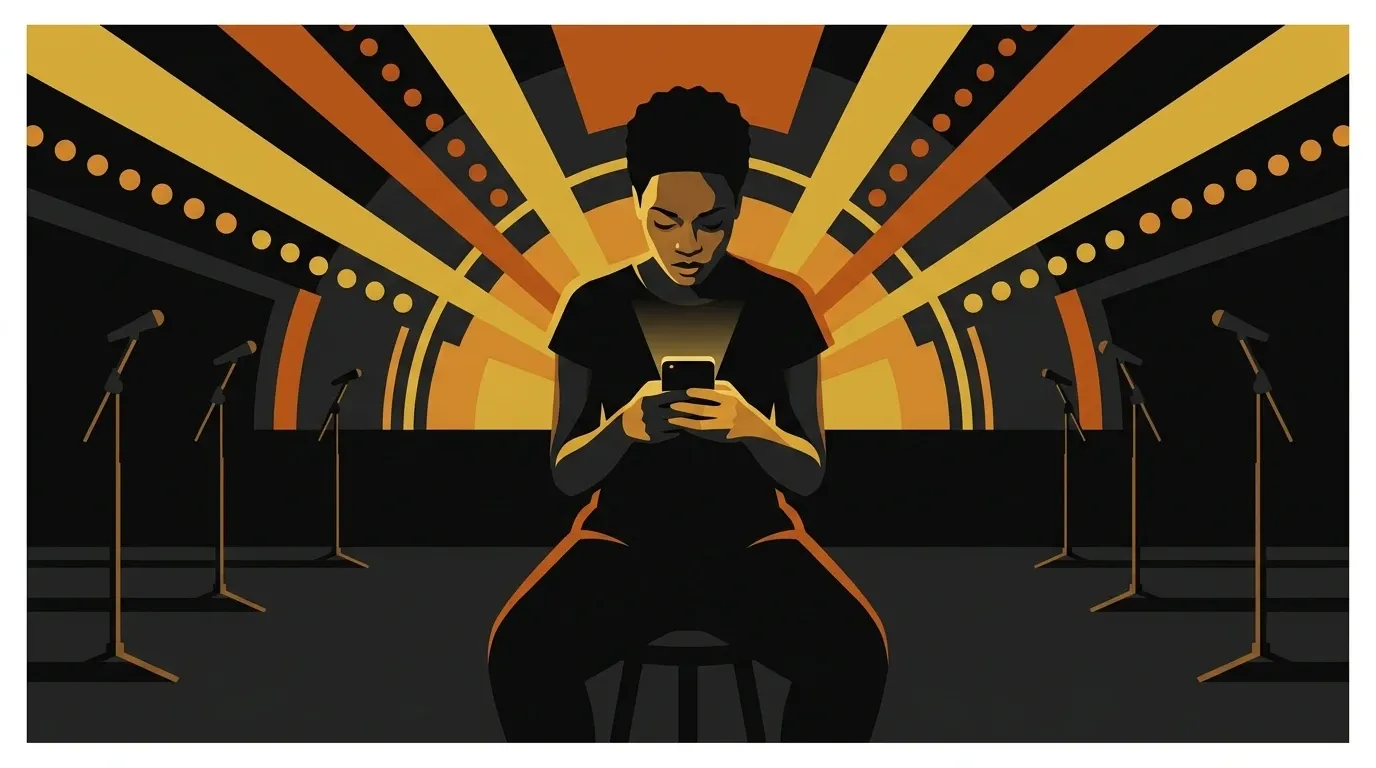
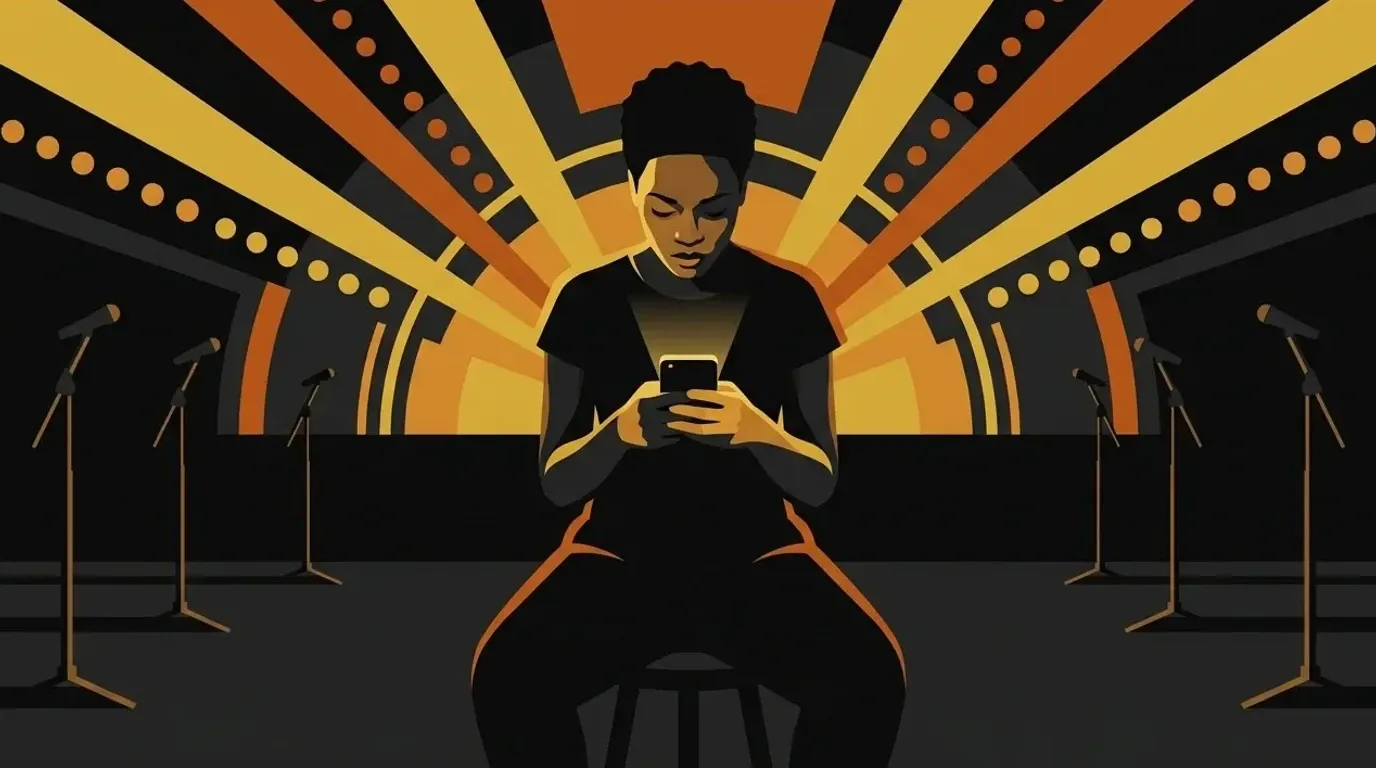
Crop the white frame off the Streaming Loss hero, and machine-check for it
The generator drew a 25px pure-white border around hero-worth on all four sides
and it reached production. Measured, not guessed: an edge scan of all fifteen
brand images found exactly one with near-white edges, at 255,255,255, while the
other fourteen sit between 6 and 178 on a #0D0D0D page.

Cropped to the largest exact 16:9 box inside the content area (1268x713 at offset
54,27) and resampled back to 1376x768, so nothing is stretched and the
composition is unchanged. 62 KB.

The house rule already said "always look at every image before shipping it", and
I did look at this one. A thin light border against a dark page is simply not
visible at review scale, which makes the eye the wrong instrument. So the edges
are measured now: the test samples all four edges of every public/hero-* and
public/section-* file and fails on a near-white edge, naming the file and the
side. Proven by mutation: a 25px white frame was reintroduced on section-pricing,
the guard failed with "section-pricing.webp has a white top border", and the
revert restored a clean suite with no diff.

sharp is a transitive dependency of Next rather than a declared one, so an
unavailable sharp SKIPS the check instead of failing it. A guard that breaks the
suite when an unrelated upgrade moves a package is worse than no guard.

CLAUDE.md now states the no-border rule, that it is machine-checked, and what
each check is for: looking catches a middle-aged face, a sixth colour or the
[…]

diff --git a/src/lib/leadMagnets/toolPositioning.test.ts b/src/lib/leadMagnets/toolPositioning.test.ts
@@ -10,7 +10,7 @@
 // invisible in a build and invisible in a type check, so it gets asserted here.
 
 import { describe, it, expect } from 'vitest';
-import { readFileSync, existsSync } from 'fs';
+import { readFileSync, existsSync, readdirSync } from 'fs';
 import { join } from 'path';
 import { TOOL_DOORWAYS, PROMOTED_MARKETING_SLUGS, hasDoorway, getDoorway } from './positioning';
 import { LEAD_MAGNETS, EXTERNAL_TOOLS, getLeadMagnet } from './registry';
@@ -159,6 +159,55 @@ describe('every headline opens on a brand photograph', () => {
     for (const [label, keys] of [['homepage', home], ['calculator', tool]] as const) {
       const srcs = keys.map((k) => SECTION_ART[k].src);
       expect(new Set(srcs).size, `${label} has a duplicate image`).toBe(srcs.length);
+    }
+  });
+
+  it('ships no brand image with a white frame baked into it', async () => {
+    // The generator drew a 25px white border around one hero and it reached production. The house
+    // rule already said "always look at every image", and I did look at this one: a thin white
+    // frame is simply not visible at review scale against a page that is already dark. Eyes are the
+    // wrong instrument for this, so the edges get measured instead.
+    //
+    // `sharp` is a transitive dependency of Next rather than a declared one, so an unavailable
+    // sharp SKIPS rather than fails. A guard that breaks the suite when an unrelated upgrade moves
+    // a package is worse than no guard.
+    // Structurally typed rather than `typeof import('sharp')`: the package is transitive, so its
+    // types are not guaranteed to resolve here, and only these two calls are used.
+    type SharpLike = (input: string) => {
+      metadata(): Promise<{ width?: number; height?: number }>;
+      raw(): { toBuffer(): Promise<Buffer> };
+    };
+    let sharp: SharpLike;
+    try {
+      sharp = ((await import('sharp')) as unknown as { default: SharpLike }).default;
+    } catch {
+      console.warn('[brand art] sharp unavailable, edge check skipped');
+      return;
+    }
+
+    const files = readdirSync(join(root, 'public')).filter((f) => /^(hero|section)-.*\.webp$/.test(f));
+    expect(files.length, 'brand art is present').toBeGreaterThan(10);
+
+    for (const file of files) {
+      const img = sharp(join(root, 'public', file));
+      const { width = 0, height = 0 } = await img.metadata();
+      const raw = await img.raw().toBuffer();
+      const lum = (x: number, y: number) => {
+        const i = (y * width + x) * 3;
+        return (raw[i] + raw[i + 1] + raw[i + 2]) / 3;
+      };
+      // Sample each edge. A brand image sits on #0D0D0D, so an edge that is mostly near-white is a
+      // frame the model drew, never artwork.
+      const edges: [string, number[]][] = [
+        ['top', Array.from({ length: 40 }, (_, i) => lum(Math.floor((width * (i + 0.5)) / 40), 0))],
+        ['bottom', Array.from({ length: 40 }, (_, i) => lum(Math.floor((width * (i + 0.5)) / 40), height - 1))],
+        ['left', Array.from({ length: 40 }, (_, i) => lum(0, Math.floor((height * (i + 0.5)) / 40)))],
+        ['right', Array.from({ length: 40 }, (_, i) => lum(width - 1, Math.floor((height * (i + 0.5)) / 40)))],
+      ];
+      for (const [side, samples] of edges) {
+        const nearWhite = samples.filter((v) => v > 200).length / samples.length;
+        expect(nearWhite, `${file} has a white ${side} border`).toBeLessThan(0.5);
+      }
     }
   });
 

diff --git a/CLAUDE.md b/CLAUDE.md
@@ -126,8 +126,16 @@ photographic texture, no realism, no soft shading, no 3D, no drop shadows.**
 - **Match the aspect ratio to the slot it renders in** (16:9 for the hero and section bands today).
   Generating 4:3 for a wide slot forces a choice between a crop and an image too small to carry the
   page.
+- **No border, frame, mat or white edge around the artwork.** The image must bleed to all four
+  edges. The generator drew a 25px white frame around one hero and it reached production, because a
+  thin light border is genuinely invisible at review scale against a dark page. **The eye is the
+  wrong instrument for this**, so it is machine-checked: `toolPositioning.test.ts` samples all four
+  edges of every `public/hero-*` and `public/section-*` file and fails on a near-white edge. If a
+  generation comes back framed, crop to the largest exact 16:9 box inside the content area rather
+  than stretching it back.
 - **Always open and look at every image before shipping it.** The age, the gender and the palette
-  are all checked by looking, not by trusting the prompt.
+  are all checked by looking, not by trusting the prompt. Looking catches what the edge test cannot
+  (a middle-aged face, a sixth colour, the wrong gender); the edge test catches what looking cannot.
 
 Reference implementation: `src/lib/positioning/sectionImages.ts` (the nine section images and why
 each composition was paired with its section), `public/hero-*.webp` and `public/section-*.webp`.
